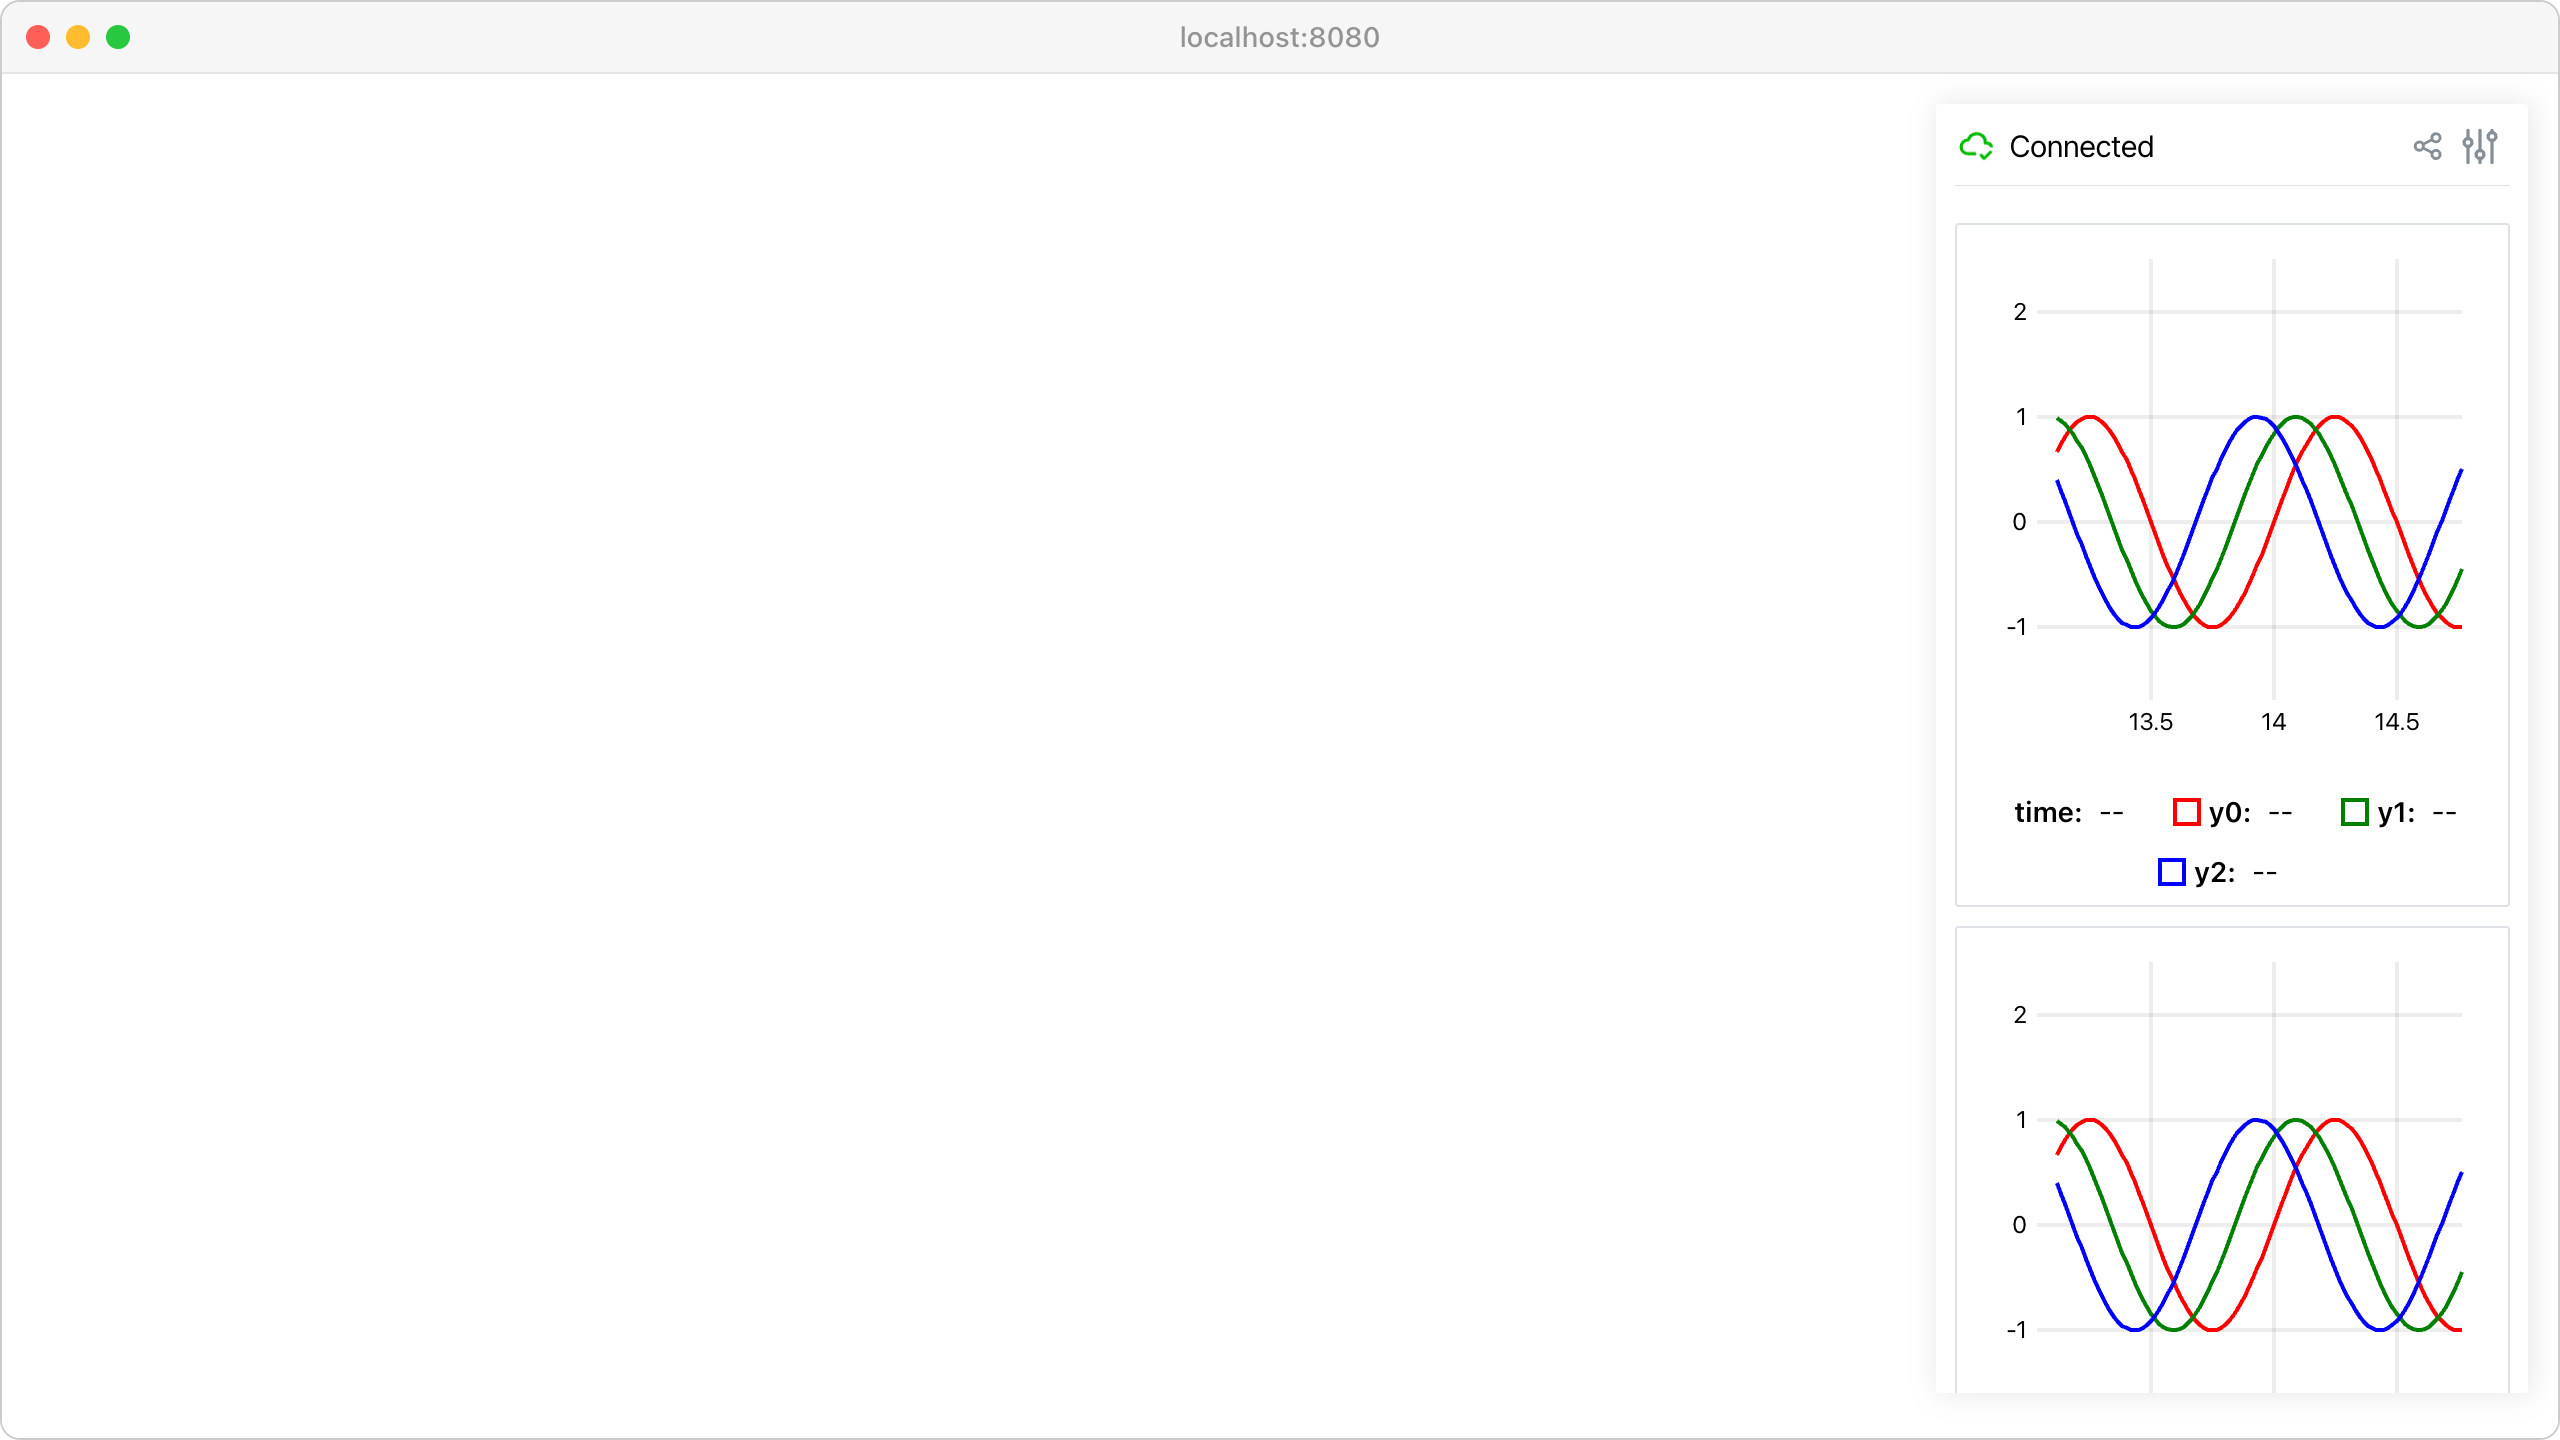
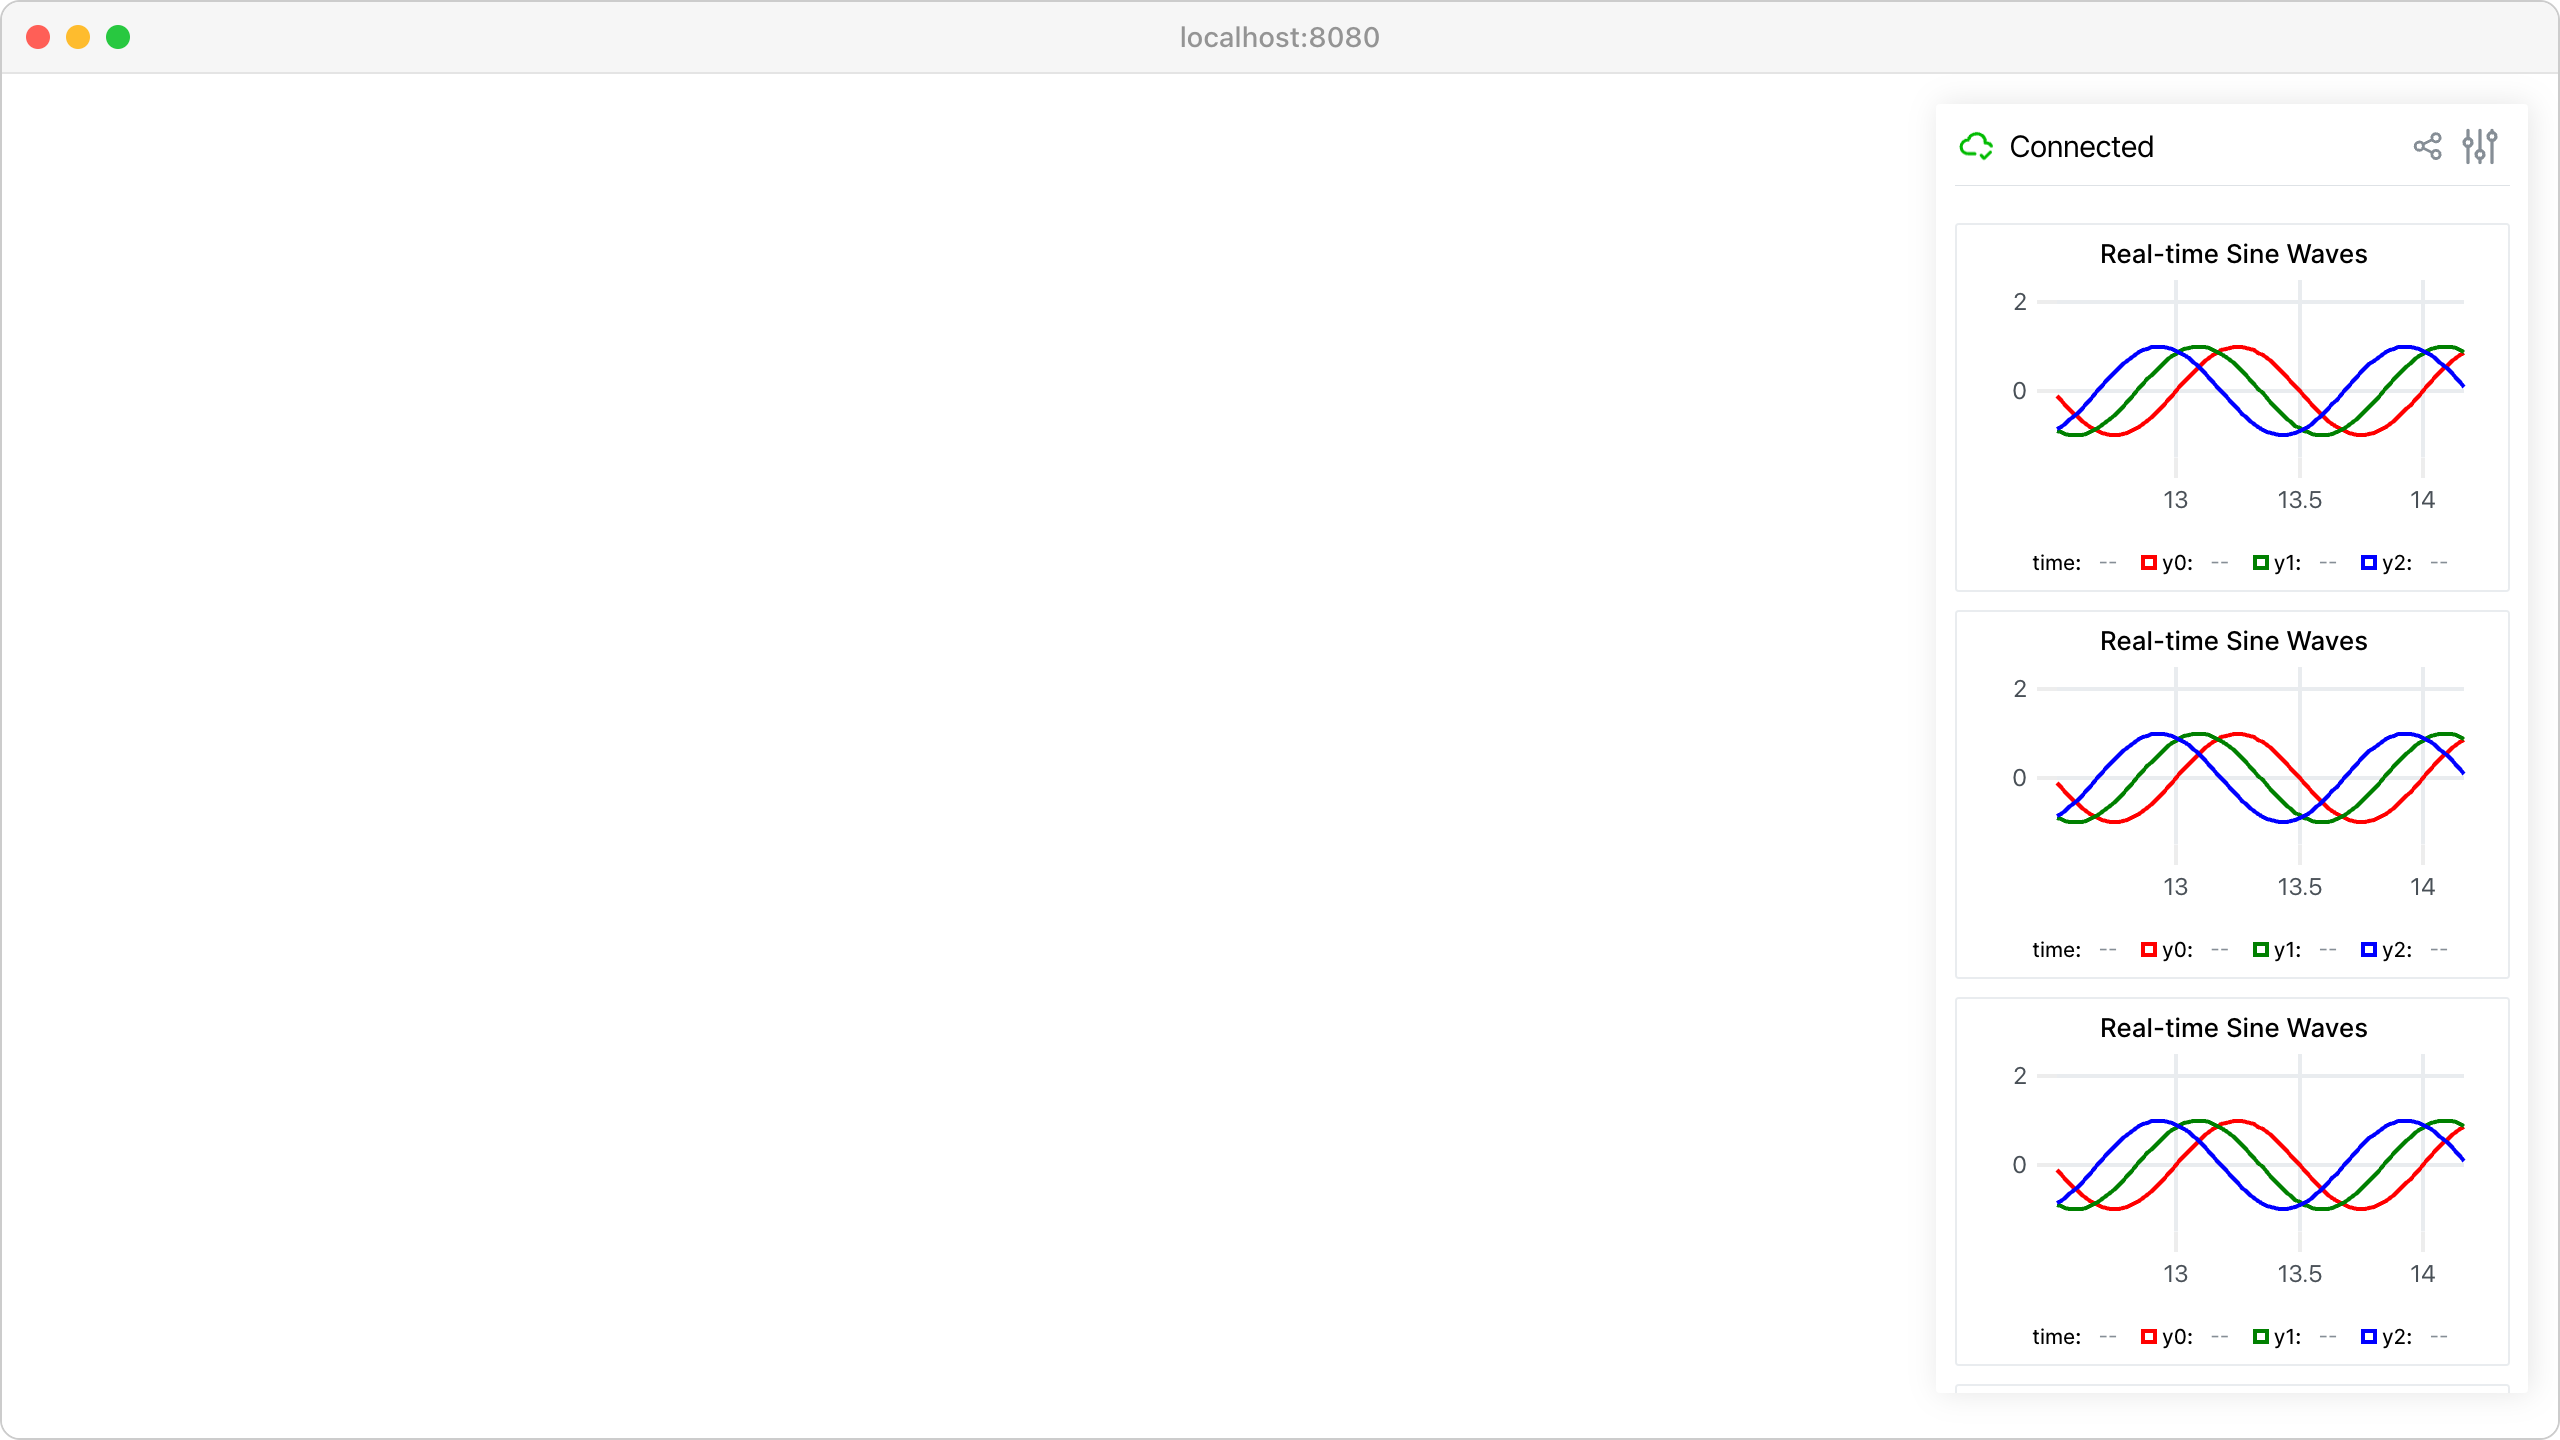
Improve uPlot styling (#567)
* Improving styling for uPlot plots

* Regenerate screenshots

* ruff

diff --git a/src/viser/client/src/components/UplotComponent.tsx b/src/viser/client/src/components/UplotComponent.tsx
@@ -1,8 +1,17 @@
 import { useEffect, useMemo, useRef, useState } from "react";
 import UplotReact from "uplot-react";
 import "uplot/dist/uPlot.min.css";
+import "./UplotComponent.css";
 
-import { Modal, Box, Paper, Tooltip, ActionIcon } from "@mantine/core";
+import {
+  Modal,
+  Box,
+  Paper,
+  Tooltip,
+  ActionIcon,
+  useMantineTheme,
+  useMantineColorScheme,
+} from "@mantine/core";
 import { useDisclosure, useElementSize } from "@mantine/hooks";
 import { IconMaximize } from "@tabler/icons-react";
 import { GuiUplotMessage } from "../WebsocketMessages";
@@ -18,6 +27,8 @@ function PlotComponent({
 }) {
   const [isHovered, setIsHovered] = useState(false);
   const { ref: containerSizeRef, width: containerWidth } = useElementSize();
+  const theme = useMantineTheme();
+  const { colorScheme } = useMantineColorScheme();
 
   // Convert inputs to Float64Array once per update.
   const [data, xMin, xMax] = useMemo(() => {
@@ -43,6 +54,53 @@ function PlotComponent({
   // There are some `any` casts because the types here come through multiple
   // transpiler layers, which are imperfect: TS=>Python=>TS.
   const plotOptions = useMemo(() => {
+    // Get theme-aware default colors.
+    const textColor =
+      colorScheme === "dark" ? theme.colors.gray[5] : theme.colors.gray[7];
+    const gridColor =
+      colorScheme === "dark"
+        ? "rgba(255, 255, 255, 0.03)"
+        : theme.colors.gray[2];
+
+    // Process axes to add theme-aware defaults if not specified by user.
+    // If axes are not provided, create default axes with theme colors.
+    let processedAxes = props.axes as any;
+    if (processedAxes === undefined || processedAxes === null) {
+      // Create default axes if none provided.
+      processedAxes = [
+        { stroke: textColor, grid: { stroke: gridColor, show: true } }, // x-axis
+        { stroke: textColor, grid: { stroke: gridColor, show: true } }, // y-axis
+      ];
+    } else {
+      processedAxes = processedAxes.map((axis: any) => {
+        if (axis === undefined || axis === null) return axis;
+
+        // Only set defaults if user hasn't specified values.
+        const result = { ...axis };
+
+        // Set axis line color default.
+        if (result.stroke === undefined) {
+          result.stroke = textColor;
+        }
+
+        // Set grid color default.
+        if (result.grid === undefined) {
+          result.grid = { stroke: gridColor };
+        } else if (result.grid !== null && result.grid.stroke === undefined) {
+          result.grid = { ...result.grid, stroke: gridColor };
+        }
+
+        // Set tick color default.
+        if (result.ticks === undefined) {
+          result.ticks = { stroke: textColor };
+        } else if (result.ticks !== null && result.ticks.stroke === undefined) {
+          result.ticks = { ...result.ticks, stroke: textColor };
+        }
+
+        return result;
+      });
+    }
+
     return {
       width: containerWidth,
       height: (containerWidth / props.aspect) as any,
@@ -52,11 +110,26 @@ function PlotComponent({
       cursor: (props.cursor as any) || undefined,
       bands: props.bands || undefined,
       scales: props.scales || undefined,
-      axes: (props.axes as any) || undefined,
+      axes: processedAxes,
       legend: (props.legend as any) || undefined,
       focus: props.focus || undefined,
+      // Set tighter default padding [top, right, bottom, left].
+      padding: [0, 24, 0, 0] as [number, number, number, number],
     };
-  }, [containerWidth, props]);
+  }, [
+    containerWidth,
+    props.aspect,
+    props.title,
+    props.mode,
+    props.series,
+    props.cursor,
+    props.bands,
+    props.scales,
+    props.axes,
+    props.legend,
+    props.focus,
+    colorScheme,
+  ]);
 
   // Somewhat experimental: manual scale reset logic. When the plot data is
   // updated, uPlot's default behavior will either:
@@ -98,7 +171,7 @@ function PlotComponent({
   return (
     <Paper
       ref={containerSizeRef}
-      className={folderWrapper}
+      className={`${folderWrapper} uplot-container`}
       withBorder
       style={{ position: "relative" }}
       onMouseEnter={onExpand ? () => setIsHovered(true) : undefined}
@@ -106,6 +179,7 @@ function PlotComponent({
     >
       {plotOptions && (
         <UplotReact
+          key={colorScheme} // Force remount when theme changes.
           resetScales={false}
           onCreate={(chart) => {
             setPlotObj(chart);
@@ -128,7 +202,10 @@ function PlotComponent({
               position: "absolute",
               top: 8,
               right: 8,
-              backgroundColor: "rgba(255, 255, 255, 0.9)",
+              backgroundColor:
+                colorScheme === "dark"
+                  ? "rgba(255, 255, 255, 0.1)"
+                  : "rgba(255, 255, 255, 0.9)",
               backdropFilter: "blur(4px)",
             }}
           >

diff --git a/examples/02_gui/08_uplot.py b/examples/02_gui/08_uplot.py
@@ -59,6 +59,7 @@ def main(num_plots: int = 5, num_timesteps: int = 100, num_lines: int = 3) -> No
                         for i in range(num_lines)
                     ],
                 ),
+                title="Real-time Sine Waves",
                 scales={
                     "x": viser.uplot.Scale(
                         time=False,
@@ -67,7 +68,7 @@ def main(num_plots: int = 5, num_timesteps: int = 100, num_lines: int = 3) -> No
                     "y": viser.uplot.Scale(range=(-1.5, 2.5)),
                 },
                 legend=viser.uplot.Legend(show=True),
-                aspect=1.0,
+                aspect=2.0,
             )
         )
 

diff --git a/docs/source/examples/gui/uplot.rst b/docs/source/examples/gui/uplot.rst
@@ -64,6 +64,7 @@ Code
                            for i in range(num_lines)
                        ],
                    ),
+                   title="Real-time Sine Waves",
                    scales={
                        "x": viser.uplot.Scale(
                            time=False,
@@ -72,7 +73,7 @@ Code
                        "y": viser.uplot.Scale(range=(-1.5, 2.5)),
                    },
                    legend=viser.uplot.Legend(show=True),
-                   aspect=1.0,
+                   aspect=2.0,
                )
            )
    
